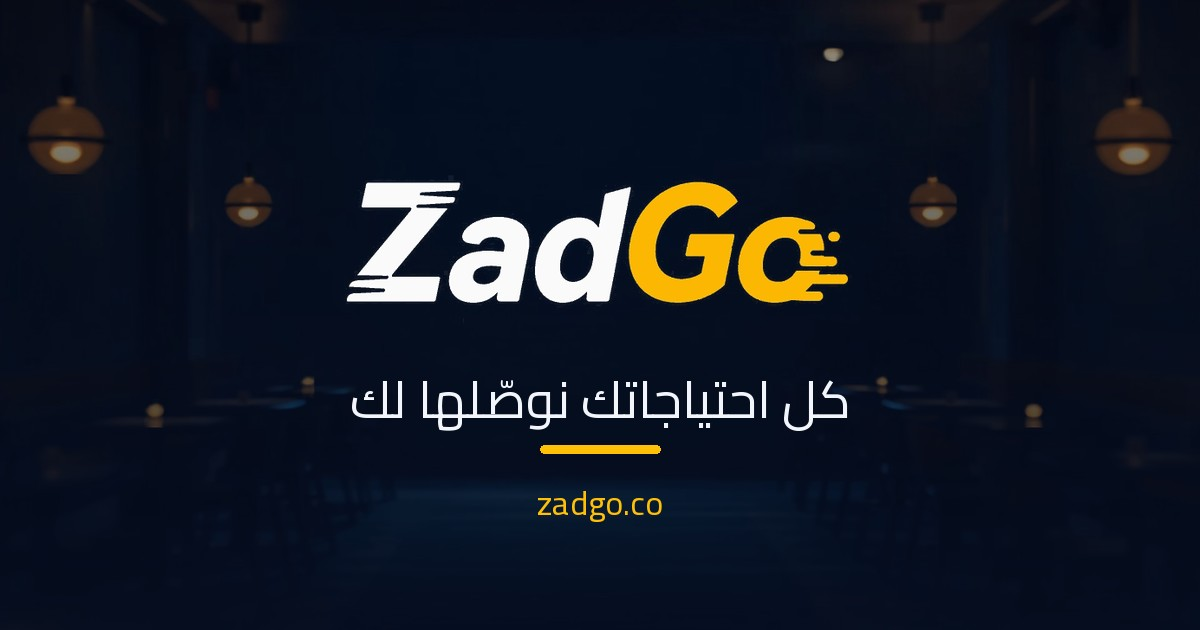
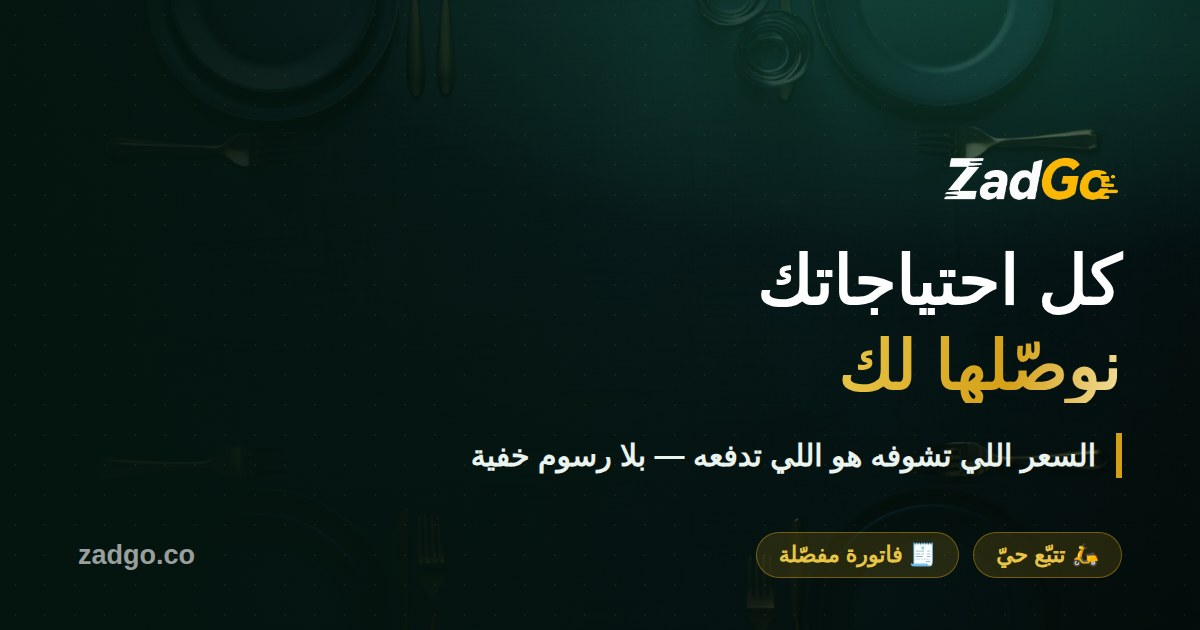
الهوية الخضراء تعمّ الموقع كله — البطاقة والصفحات القانونية
فحصٌ بطلب المالك كشف موضعين لم أذكرهما، وكلاهما يراه الناس:

**بطاقة المشاركة** كانت كحلية (6,13,29) — وهي أول ما يراه من تصله وصلة
الموقع في واتساب، وواتساب قناة التسويق الفعلية. فمن يشارك الرابط يعرض
هويةً قديمة ثم تُفتح صفحةٌ خضراء. ولّدتُ بطاقةً جديدة **في متصفح بنفس CSS
الصفحة** لا في محرّر صور: فتخرج من الهوية نفسها لا محاكاةً لها، وتُعاد
بأمرٍ واحد إن تغيّرت الألوان. وأصلحتُ فيها خطأين: عمودٌ مرن كان يمطّ
الشعار إلى 11:1، وموضعين مطلقين تداخل فيهما الرابط مع الشرائح.

**وست صفحات** كانت كحلية: سياسة الخصوصية وحذف الحساب (**وجوجل بلاي يربط
بهما**، وهما شرط نشر التطبيق)، والشروط والتواصل و404، و الذي
يلوّن أربعاً منها. فمن يضغط «سياسة الخصوصية» في تذييل الرئيسية الخضراء
كان ينتقل إلى الكحلي فجأة. حُوّلت بخريطة الألوان نفسها، وأيقونة التبويب
الكحلية صارت الذهبية كبقية الموقع.

وخريطة الموقع حُدّثت تواريخُ **الصفحات التي تغيّرت فعلاً** وحدها — لا كلها،
فتاريخٌ لصفحةٍ لم تتغيّر كذبٌ على جوجل بلا فائدة.

ولوحة التحكم ودليلها يبقيان كحليّين عمداً: أداة داخلية، وتمييزها بلون
مختلف عن الموقع العام يفيد لا يضرّ.

خمسة اختبارات في متصفح حقيقي: لا بقية كحلية ولا أخطاء تشغيل في الصفحات.

Claude-Session: https://claude.ai/code/session_01MPsSHZ6h1q9cSeYHCLL4Wn

diff --git a/docs/404.html b/docs/404.html
@@ -3,20 +3,20 @@
 <head>
   <meta charset="UTF-8">
   <meta name="viewport" content="width=device-width, initial-scale=1.0">
-  <meta name="theme-color" content="#061024">
+  <meta name="theme-color" content="#04150F">
   <meta http-equiv="Content-Security-Policy" content="default-src 'self'; style-src 'unsafe-inline'; img-src 'self'; script-src 'none'; object-src 'none'; base-uri 'self'">
   <meta name="robots" content="noindex">
   <link rel="icon" href="/images/zadgo-logo-gold.png">
   <title>الصفحة غير موجودة — زادقو ZadGo</title>
   <style>
     * { margin: 0; padding: 0; box-sizing: border-box; font-family: Tahoma, Arial, sans-serif; }
-    body { min-height: 100dvh; background: linear-gradient(168deg, #0e1c3d 0%, #0b1631 46%, #061024 100%);
+    body { min-height: 100dvh; background: linear-gradient(168deg, #14523E 0%, #0B3D2E 46%, #04150F 100%);
       color: #f2f5fb; display: flex; align-items: center; justify-content: center; text-align: center; padding: 24px; }
     .box img { width: min(300px, 70vw); margin-bottom: 28px; }
-    .code { font-size: 1rem; letter-spacing: .4em; color: #FFC107; font-weight: 700; margin-bottom: 10px; }
+    .code { font-size: 1rem; letter-spacing: .4em; color: #D4A017; font-weight: 700; margin-bottom: 10px; }
     h1 { font-size: clamp(1.5rem, 6vw, 2.2rem); font-weight: 800; margin-bottom: 12px; }
     p { color: #9aa7bd; line-height: 2; margin-bottom: 30px; }
-    a.home { display: inline-block; background: #FFC107; color: #061024; font-weight: 800;
+    a.home { display: inline-block; background: #D4A017; color: #04150F; font-weight: 800;
       border-radius: 999px; padding: 14px 44px; text-decoration: none; font-size: 1.05rem; }
   </style>
 </head>

diff --git a/docs/legal.css b/docs/legal.css
@@ -1,13 +1,13 @@
 /* ZadGo — الصفحات النظامية (الخصوصية، الشروط، حذف الحساب، التواصل)
-   الهوية الرسمية: كحلي داكن + ذهبي #FFC107، خط Tajawal — مطابقة لصفحة الهبوط. */
+   الهوية الرسمية: كحلي داكن + ذهبي #D4A017، خط Tajawal — مطابقة لصفحة الهبوط. */
 
 :root {
-  --navy: #0b1631;
-  --navy-deep: #061024;
-  --gold: #FFC107;
+  --g700: #0B3D2E;
+  --g900: #04150F;
+  --gold: #D4A017;
   --paper: #f2f5fb;
-  --ink: #101a2e;
-  --muted: #5b6880;
+  --ink: #0B1F17;
+  --muted: #5C6B64;
   --line: #dfe5f0;
 }
 
@@ -21,11 +21,11 @@ body {
 }
 
 a { color: #12508f; }
-a:hover { color: var(--navy); }
+a:hover { color: var(--g700); }
 
 /* ترويسة */
 .site-header {
-  background: linear-gradient(135deg, var(--navy-deep), var(--navy));
+  background: linear-gradient(135deg, var(--g900), var(--g700));
   padding: 18px 20px;
 }
 .header-inner {
@@ -51,12 +51,12 @@ main {
   color: var(--muted);
   text-decoration: none;
 }
-.back-link:hover { color: var(--navy); }
+.back-link:hover { color: var(--g700); }
 
 h1 {
   font-size: 1.7rem;
   font-weight: 800;
-  color: var(--navy);
+  color: var(--g700);
   line-height: 1.5;
 }
 h1::after {
@@ -78,7 +78,7 @@ h1::after {
 h2 {
   font-size: 1.12rem;
   font-weight: 700;
-  color: var(--navy);
+  color: var(--g700);
   margin: 28px 0 8px;
   padding-right: 12px;
   border-right: 4px solid var(--gold);
@@ -116,7 +116,7 @@ li { margin: 6px 0; }
 
 /* التذييل */
 .site-footer {
-  background: var(--navy-deep);
+  background: var(--g900);
   color: #9aa7bd;
   padding: 24px 20px;
   text-align: center;

diff --git a/docs/contact.html b/docs/contact.html
@@ -10,7 +10,7 @@
   <meta property="og:image" content="https://zadgo.co/images/og-card.jpg">
   <meta name="twitter:card" content="summary_large_image">
   <meta name="referrer" content="no-referrer">
-  <link rel="icon" href="images/zadgo-logo-navy.png">
+  <link rel="icon" href="images/zadgo-logo-gold.png">
   <link rel="preconnect" href="https://fonts.googleapis.com">
   <link rel="preconnect" href="https://fonts.gstatic.com" crossorigin>
   <link href="https://fonts.googleapis.com/css2?family=Tajawal:wght@400;500;700;800&display=swap" rel="stylesheet">

diff --git a/docs/delete-account.html b/docs/delete-account.html
@@ -10,7 +10,7 @@
   <meta property="og:image" content="https://zadgo.co/images/og-card.jpg">
   <meta name="twitter:card" content="summary_large_image">
   <meta name="referrer" content="no-referrer">
-  <link rel="icon" href="images/zadgo-logo-navy.png">
+  <link rel="icon" href="images/zadgo-logo-gold.png">
   <link rel="preconnect" href="https://fonts.googleapis.com">
   <link rel="preconnect" href="https://fonts.gstatic.com" crossorigin>
   <link href="https://fonts.googleapis.com/css2?family=Tajawal:wght@400;500;700;800&display=swap" rel="stylesheet">

diff --git a/docs/privacy-policy.html b/docs/privacy-policy.html
@@ -10,7 +10,7 @@
   <meta property="og:image" content="https://zadgo.co/images/og-card.jpg">
   <meta name="twitter:card" content="summary_large_image">
   <meta name="referrer" content="no-referrer">
-  <link rel="icon" href="images/zadgo-logo-navy.png">
+  <link rel="icon" href="images/zadgo-logo-gold.png">
   <link rel="preconnect" href="https://fonts.googleapis.com">
   <link rel="preconnect" href="https://fonts.gstatic.com" crossorigin>
   <link href="https://fonts.googleapis.com/css2?family=Tajawal:wght@400;500;700;800&display=swap" rel="stylesheet">

diff --git a/docs/terms.html b/docs/terms.html
@@ -10,7 +10,7 @@
   <meta property="og:image" content="https://zadgo.co/images/og-card.jpg">
   <meta name="twitter:card" content="summary_large_image">
   <meta name="referrer" content="no-referrer">
-  <link rel="icon" href="images/zadgo-logo-navy.png">
+  <link rel="icon" href="images/zadgo-logo-gold.png">
   <link rel="preconnect" href="https://fonts.googleapis.com">
   <link rel="preconnect" href="https://fonts.gstatic.com" crossorigin>
   <link href="https://fonts.googleapis.com/css2?family=Tajawal:wght@400;500;700;800&display=swap" rel="stylesheet">
